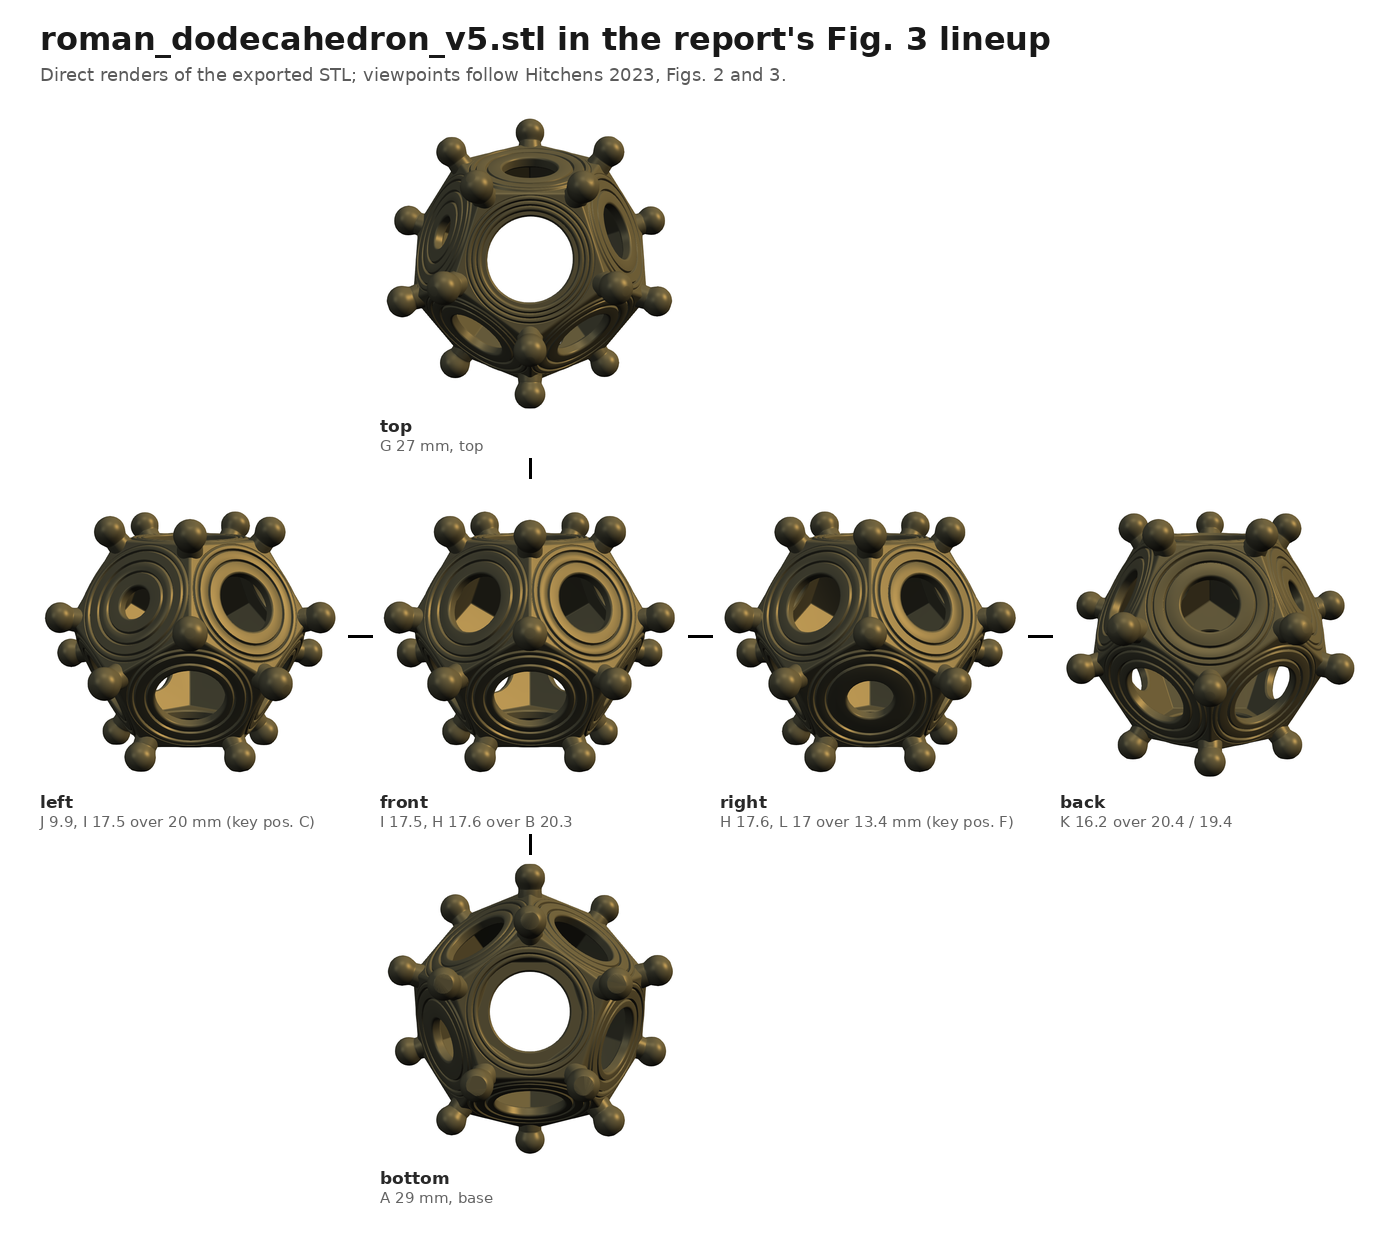
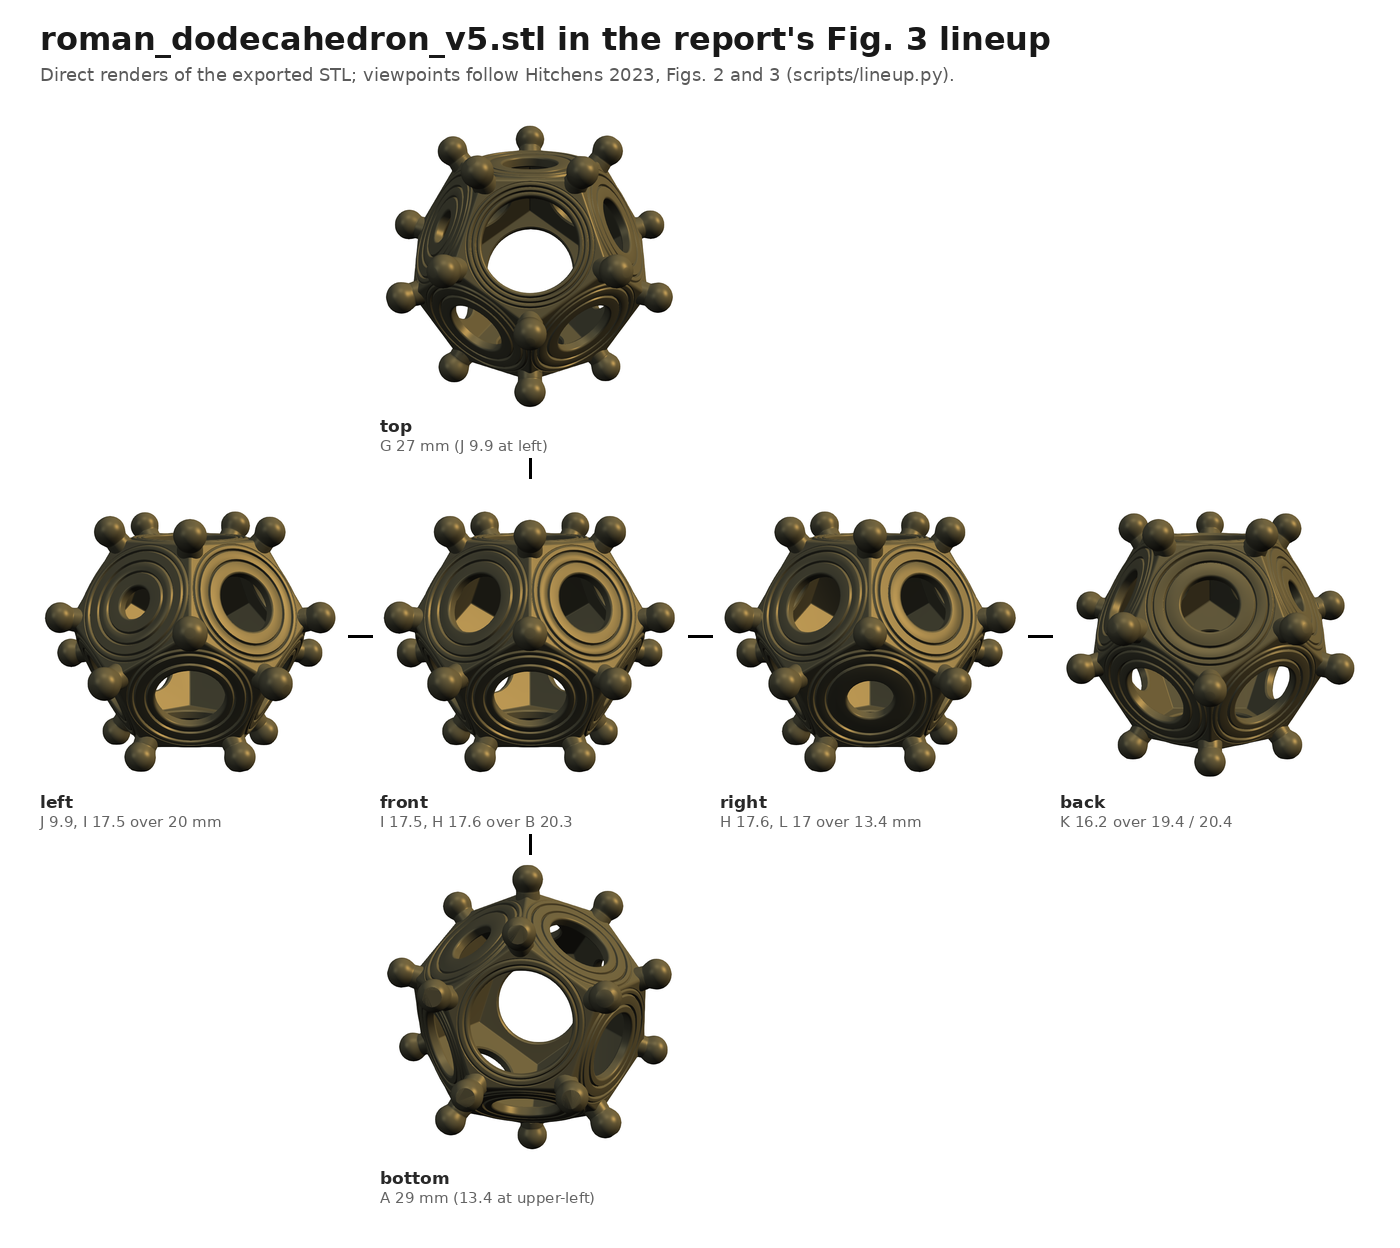
Roman dodecahedron: fit Fig. 3 top/bottom views, document table check
lineup.py now renders the top and bottom views at the in-plane rotation
and slight camera lean that match the report's Fig. 3 photos (bottom:
roll 288, 13.4 mm hole at upper-left; top: roll 0, J at left; 8 deg
lean), instead of assuming the front edge at the bottom of the frame.

README and SOURCES answer whether the model matches the report's table:
all twelve diameters are present, A, B and G-L at the key's positions,
C/F and D/E swapped because the report's own photographs show the
smallest base-tier hole to the right of B. Adds the orientation-
independent adjacency argument and the brute-force result (literal key
best 3.4 mm RMS over all 60 orientations vs 0.6 mm reversed). Model
geometry unchanged.

Claude-Session: https://claude.ai/code/session_015MbW6UN5a7n2MVk8oJAEbf

diff --git a/roman-dodecahedron/scripts/lineup.py b/roman-dodecahedron/scripts/lineup.py
@@ -1,30 +1,46 @@
 """Render the report's Fig. 3 lineup (top/left/front/right/back/bottom) of an STL.
 
-usage: python3 lineup.py model.stl centre_z outdir [elev_deg]
-Faces follow the report's key (Hitchens 2023, Fig. 2): A base, B front,
-side views look at the vertices B/I/H (front), C/J/I (left), F/H/L (right),
-D/E/K (back); top looks down on G, bottom looks up at A.
+usage: python3 lineup.py model.stl centre_z outdir [elev_deg] [top_roll bottom_roll tilt]
+Faces follow the report's key (Hitchens 2023, Fig. 2): A base, B front.
+Side views look at the vertices B/I/H (front), C/J/I (left), F/H/L (right),
+D/E/K (back), raised elev_deg above horizontal (Fig. 3: about 10).
+Top and bottom views look along the A axis; their in-plane rotation and the
+slight camera lean are fitted to the Fig. 3 photos: top_roll 0, bottom_roll
+288 (both measured from "front edge at the bottom of the image"), tilt 8
+(top leans towards the bottom of the frame, bottom towards the upper right).
 """
 import sys, subprocess, numpy as np
 import faces_letters as FL
 
 stl, cz, out = sys.argv[1], sys.argv[2], sys.argv[3]
 elev = float(sys.argv[4]) if len(sys.argv) > 4 else 10.0
+top_roll = float(sys.argv[5]) if len(sys.argv) > 5 else 0.0
+bottom_roll = float(sys.argv[6]) if len(sys.argv) > 6 else 288.0
+tilt = float(sys.argv[7]) if len(sys.argv) > 7 else 8.0
 A_IDX, B_IDX = 1, 9                       # as in roman_dodecahedron_v5.scad
 m = FL.letters(A_IDX, B_IDX); N = FL.N
 up = -N[m["A"]]
 def horiz(*L):
     v = sum(N[m[l]] for l in L); h = v - (v @ up) * up; return h / np.linalg.norm(h)
-def tilt(h, e):                             # raise the camera by e degrees
+def tilt_cam(h, e):                         # raise the camera by e degrees
     e = np.radians(e); return np.cos(e) * h + np.sin(e) * up
 hf = horiz("B", "I", "H")
+def tilted(d, vu, tilt_deg, dir_deg):
+    """tilt the camera direction d by tilt_deg towards screen angle dir_deg."""
+    r = np.cross(vu, d); r /= np.linalg.norm(r)          # screen right
+    t = np.radians(dir_deg); towards = np.cos(t) * r + np.sin(t) * vu
+    e = np.radians(tilt_deg); dn = np.cos(e) * d + np.sin(e) * towards
+    return dn / np.linalg.norm(dn), vu - (vu @ dn) * dn
+def rolled(vu, d, roll_deg):
+    t = np.radians(roll_deg); r = np.cross(vu, d)
+    return np.cos(t) * vu + np.sin(t) * r
 views = {
-    "front": (tilt(hf, elev), up),
-    "left":  (tilt(horiz("C", "J", "I"), elev), up),
-    "right": (tilt(horiz("F", "H", "L"), elev), up),
-    "back":  (tilt(horiz("D", "E", "K"), elev), up),
-    "top":   (up, -hf),                     # front edge at the bottom of the image
-    "bottom": (-up, -hf),                   # front edge at the bottom of the image (as in Fig. 3)
+    "front": (tilt_cam(hf, elev), up),
+    "left":  (tilt_cam(horiz("C", "J", "I"), elev), up),
+    "right": (tilt_cam(horiz("F", "H", "L"), elev), up),
+    "back":  (tilt_cam(horiz("D", "E", "K"), elev), up),
+    "top":    tilted(up, rolled(-hf, up, top_roll), tilt, 270),
+    "bottom": tilted(-up, rolled(-hf, -up, bottom_roll), tilt, 49),
 }
 for name, (d, vu) in views.items():
     subprocess.run([sys.executable, "-I", "render_stl.py", stl, f"{out}/lineup_{name}.png",

diff --git a/roman-dodecahedron/README.md b/roman-dodecahedron/README.md
@@ -39,19 +39,24 @@ Primary source: L. Hitchens (2023), *Roman Dodecahedron*, Appendix 7 of the Alle
 
 ### Check against the report's Fig. 3 photographs
 
-`scripts/lineup.py` renders the STL from the six viewpoints of the report's Fig. 3: top, left, front, right, back and bottom, with the object resting on Face A. I then measured the hole openings in each photo against the report's 8 cm scale bar.
+`scripts/lineup.py` renders the STL from the six viewpoints of the report's Fig. 3 (top, left, front, right, back, bottom), with the object resting on Face A. The side views each look at a corner where one base-tier face (below) meets two top-tier faces (above). I measured the hole openings in each photo against the report's 8 cm scale bar:
 
 | View | Upper-left | Upper-right | Lower |
 |---|---|---|---|
 | Front | 17.9 mm (I = 17.5) | 18.6 mm (H = 17.6) | 21.0 mm (B = 20.3) |
-| Left | 9.8 mm (J = 9.9) | 17.6 mm (I = 17.5) | **20.9 mm** |
-| Right | 17.0 mm (H = 17.6) | 17.7 mm (L = 17) | **13.1 mm** |
+| Left | 9.8 mm (J = 9.9) | 17.6 mm (I = 17.5) | **20.9 mm** (key says C = 13.4) |
+| Right | 17.0 mm (H = 17.6) | 17.7 mm (L = 17) | **13.1 mm** (key says F = 20) |
+| Back | | 16.3 mm (K = 16.2) on top | |
 
-- The front view confirms the measuring method: all three holes are within about 1 mm of the table.
-- Every upper-tier face matches the face key.
-- In the base tier, the photos show the 13.4 mm hole to the **right** of B and a 20 mm hole to the left. Fig. 2 has these the other way round (C, 13.4 mm, on the left). This also matches the report's own convention that the smallest base-tier hole is "usually Face F, positioned to the right".
-- v5 therefore follows the photographs: `bottom_tier_reversed = true` swaps the C/F and D/E hole sizes. Set it to `false` for a literal reading of Fig. 2.
-- The D/E swap (19.4 vs 20.4 mm) is too small to see in the photos. It follows from the same reversal.
+**Does the model match the table?** It contains exactly the twelve diameters from Table 1, one per face. Faces A, B and G–L sit where the key (Fig. 2) puts them. The two base-tier pairs C/F and D/E are placed the other way round from the key, because that is what the report's own photographs show:
+
+- The key puts the smallest base-tier hole (C, 13.4) at the corner shared with the smallest top-tier hole (J, 9.9). In the photos the 9.9 mm hole sits above a ~21 mm hole, and the 13 mm hole sits below two ~17 mm holes. The two smallest holes never share a corner. Adjacency doesn't change when you rotate the object, so no orientation of the literal key fixes this.
+- I also checked by brute force: for every one of the 60 ways to orient the model, the key read literally fits the three side photos no better than 3.4 mm RMS (the lower holes come out 13.4 and 20 where 20.9 and 13.1 were photographed). With the base tier reversed the best orientation fits to 0.6 mm, and it is the orientation the key describes (resting on A, B in front).
+- A full mirror image, and reversing only the top tier, were also tested. Neither fits.
+- This is consistent with the report's own convention that the smallest base-tier hole is "usually Face F, positioned to the right".
+- The top and bottom photos can't settle it: the in-plane rotation of those shots is unknown, and either labelling can be rotated to put the small hole where the photo has it. Those two views in `lineup.py` use the rotation and slight camera lean that fit each photo best (top: J at left; bottom: 13.4 at upper-left, camera leaning toward the upper-right).
+
+`bottom_tier_reversed = true` in the `.scad` applies the swap; set it to `false` for a literal reading of Fig. 2.
 
 ## Validation (run on the exported `models/roman_dodecahedron_v5.stl`)
 

diff --git a/roman-dodecahedron/references/SOURCES.md b/roman-dodecahedron/references/SOURCES.md
@@ -44,12 +44,13 @@ The report's remark that Face K's rings are especially crisp matches the very cr
 | Front | 17.9 mm (I = 17.5) | 18.6 mm (H = 17.6) | 21.0 mm (B = 20.3) |
 | Left | 9.8 mm (J = 9.9) | 17.6 mm (I = 17.5) | 20.9 mm (key says C = 13.4) |
 | Right | 17.0 mm (H = 17.6) | 17.7 mm (L = 17) | 13.1 mm (key says F = 20) |
+| Back | | 16.3 mm (K = 16.2) on top | |
 
-- The upper tier matches Fig. 2 exactly.
-- The base tier runs the other way round from Fig. 2.
-- I also tested a full mirror image and 90° camera turns between shots. Neither fits.
+- The front view and the whole upper tier match Fig. 2 exactly.
+- The base tier runs the other way round from Fig. 2: the 13.4 mm hole is to the right of B. The orientation-independent form of this: in the key, C (13.4) and J (9.9) share a corner; in the photos they don't.
+- Brute force over all 60 orientations of the model: literal key, best 3.4 mm RMS on the side views; base tier reversed, best 0.6 mm (at the key's own orientation). A full mirror and a top-tier-only reversal were tested too; neither fits.
 - So `bottom_tier_reversed = true` in the `.scad` places the base-tier sizes as photographed.
-- The bottom view can't confirm or contradict this, because the in-plane rotation of that photo is unknown.
+- Top and bottom photos: their in-plane rotation is unknown, so they can't distinguish the two labellings. `lineup.py` renders them at the rotation that fits each photo (top: roll 0, J at left; bottom: roll 288, 13.4 at upper-left), with an 8° camera lean (top: toward the bottom of the frame; bottom: toward the upper-right), judged from how open each surrounding hole appears.
 
 In the `.scad`, `face_letter = [C, A, E, F, K, D, J, L, G, B, I, H]` gives the key position of each face index (0–11); with the reversal, hole sizes come from `[F, A, D, C, K, E, J, L, G, B, I, H]`.
 
